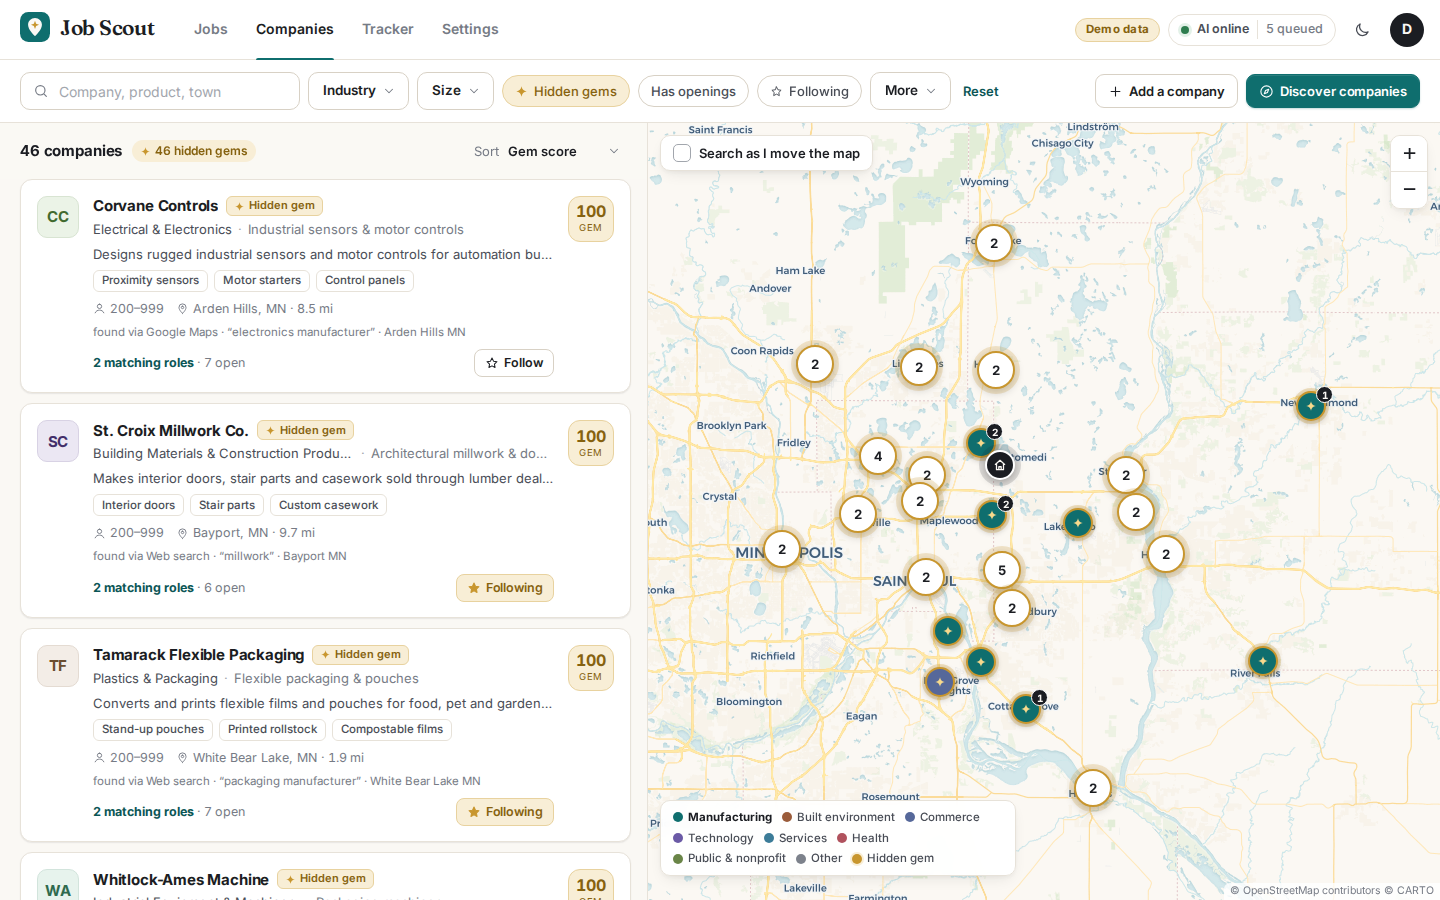
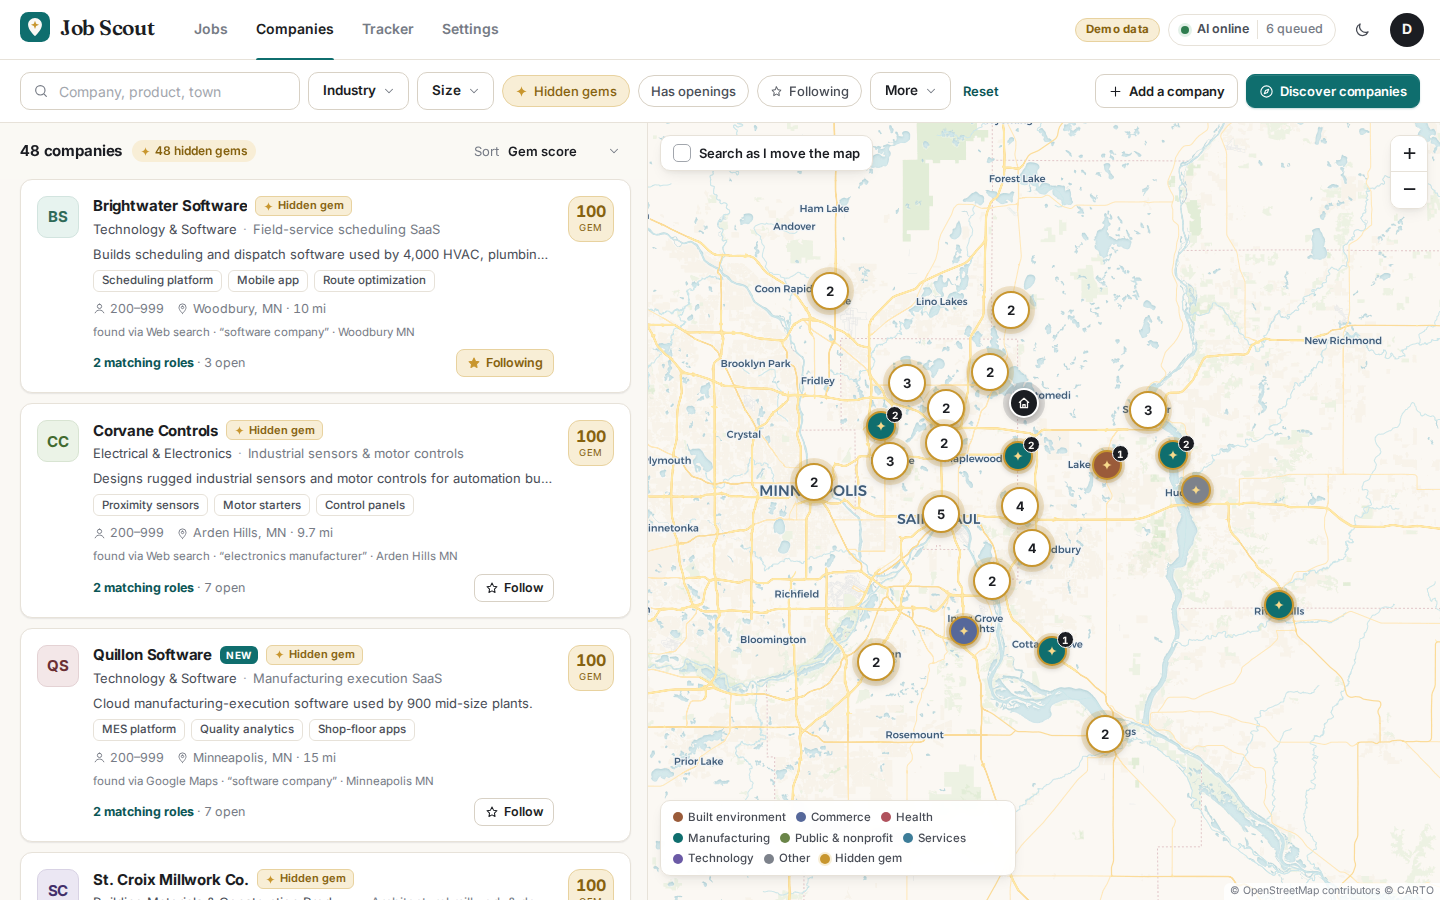
Job Scout copy: any field, any industry, Find matches

diff --git a/src/components/AppReadme.jsx b/src/components/AppReadme.jsx
@@ -216,13 +216,14 @@ const details = {
   'job-scout': {
     tagline: 'A job search that starts from the employers around you — including the ones nobody has heard of — instead of from a job board.',
     paragraphs: [
-      "Job boards only show the jobs someone paid to advertise. Job Scout starts from a place instead: give it a home address, a radius, the kinds of roles you want and the industries you're curious about, and it goes looking for the employers themselves — searching Google Maps, the web and OpenStreetMap town by town. An injection molder in Willernie or a millwork shop in Oakdale shows up right next to the household names.",
-      "Every company it finds gets categorized from its own website: industry, products, size, ownership and whether it's a name most people would recognize. Lesser-known local makers are flagged as hidden gems. Then it finds each company's careers page, recognizes the careers system behind it (Workday, Oracle, Greenhouse, Lever, Paylocity and more) and reads the openings straight from the source — and since Minnesota's pay-transparency law took effect, many come with a salary range.",
-      "Each role is scored against your resume and what you want (and want to avoid) by an LLM running on a desktop GPU at home, so your resume never leaves your own machines. The result is a Zillow-style view: filters for fit, salary, remote/hybrid/on-site, distance and recency; a list beside a map with salary pins; and a tracker from saved to applied to offer.",
+      "Job boards only show the jobs someone paid to advertise. Job Scout starts from a place instead: give it a home address, a radius and the kinds of jobs you want — job categories, target titles, levels and a few sentences in your own words — and press Find matches. It goes looking for the employers themselves, searching Google Maps, the web and OpenStreetMap town by town, so a 150-person software company or an independent clinic group down the road shows up right next to the household names.",
+      "Every company it finds gets categorized from its own website: industry, products, size, ownership and whether it's a name most people would recognize. Local, independent, mid-sized employers most people haven't heard of are flagged as hidden gems, whatever they do. Then it finds each company's careers page, recognizes the careers system behind it (Workday, Oracle, Greenhouse, Lever, Paylocity and more) and reads the openings straight from the source — and since Minnesota's pay-transparency law took effect, many come with a salary range. A progress strip shows each step while it works.",
+      "Each role in your field is scored against your resume and what you want (and want to avoid) by an LLM running on a desktop GPU at home, so your resume never leaves your own machines. The result is a Zillow-style view: filters for fit, salary, remote/hybrid/on-site, distance and recency; a list beside a map with salary pins; and a tracker from saved to applied to offer.",
     ],
     features: [
-      'Discovers local employers by itself from a location, radius, industries and keywords',
-      'Categorizes each company from its own site and surfaces lesser-known "hidden gem" makers',
+      'One Find matches button: discovers local employers by itself, reads their jobs and scores the ones in your field, with live progress',
+      'Any field: pick job categories, target titles and levels, and describe what you want in your own words',
+      'Categorizes each company from its own site and surfaces lesser-known local "hidden gem" employers in every industry',
       'Reads openings directly from careers systems — Workday, Oracle, Greenhouse, Lever, Paylocity, Workable and more',
       'Scores every role against your resume with a local LLM (Gemma on an RTX 3060) — nothing sent to a cloud AI',
       'Zillow-style list + map with salary pins, work-style, distance and fit filters',
@@ -240,8 +241,15 @@ const details = {
       {
         src: '/screenshots/job_scout_hidden_gems.png',
         type: 'image',
-        alt: 'Job Scout companies view filtered to hidden gems: local manufacturers with gem scores, products and how each was found.',
-        caption: 'Companies: hidden-gem local makers the app found and categorized (demo data)',
+        alt: 'Job Scout companies view filtered to hidden gems: lesser-known local employers across industries with gem scores, products and how each was found.',
+        caption: 'Companies: hidden-gem local employers the app found and categorized (demo data)',
+        aspect: 16 / 10,
+      },
+      {
+        src: '/screenshots/job_scout_find_matches.png',
+        type: 'image',
+        alt: 'Job Scout while Find matches runs: a progress strip listing each step (searching for employers, categorizing, checking careers pages, reading job listings, AI scoring) with counts and the latest log line.',
+        caption: 'Find matches: live progress through every step (demo data)',
         aspect: 16 / 10,
       },
     ],

diff --git a/src/data/apps.js b/src/data/apps.js
@@ -148,7 +148,7 @@ export const apps = [
     slug: "job-scout", // → michaelwegter.com/apps/job-scout (iframe)
     title: "Job Scout",
     description:
-      "Finds local employers on its own — lesser-known manufacturers included — reads openings straight from their careers systems, and scores each role against your resume with a local LLM. A Zillow-style list and map.",
+      "Finds local employers on its own — in any industry, including the ones nobody has heard of — reads openings straight from their careers sites, and scores each role against what you want with a local LLM. A Zillow-style list and map.",
     category: "Productivity",
     status: "live",
     href: JOBSCOUT_URL,
